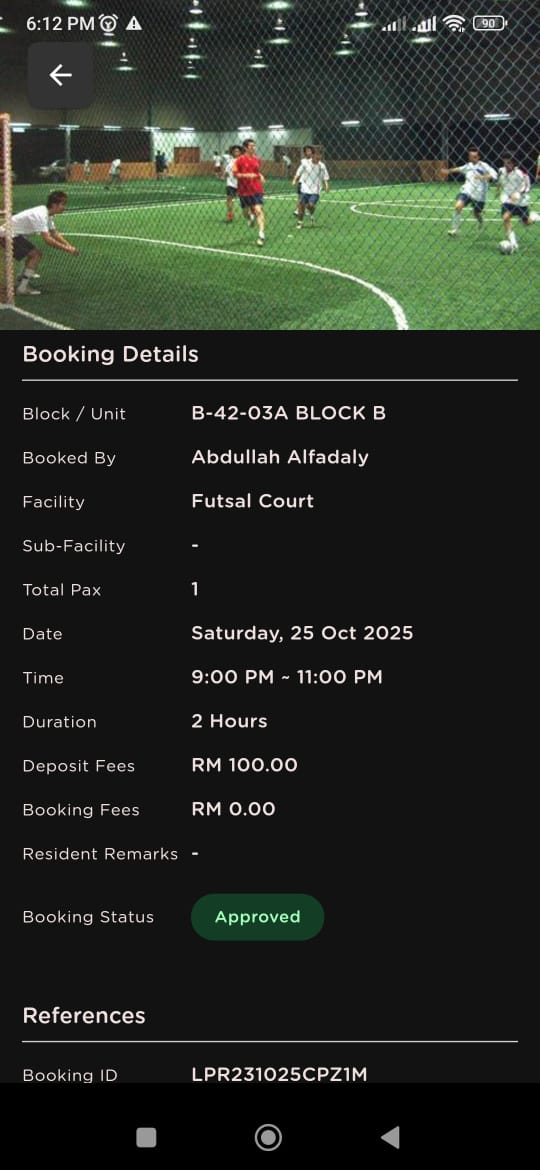
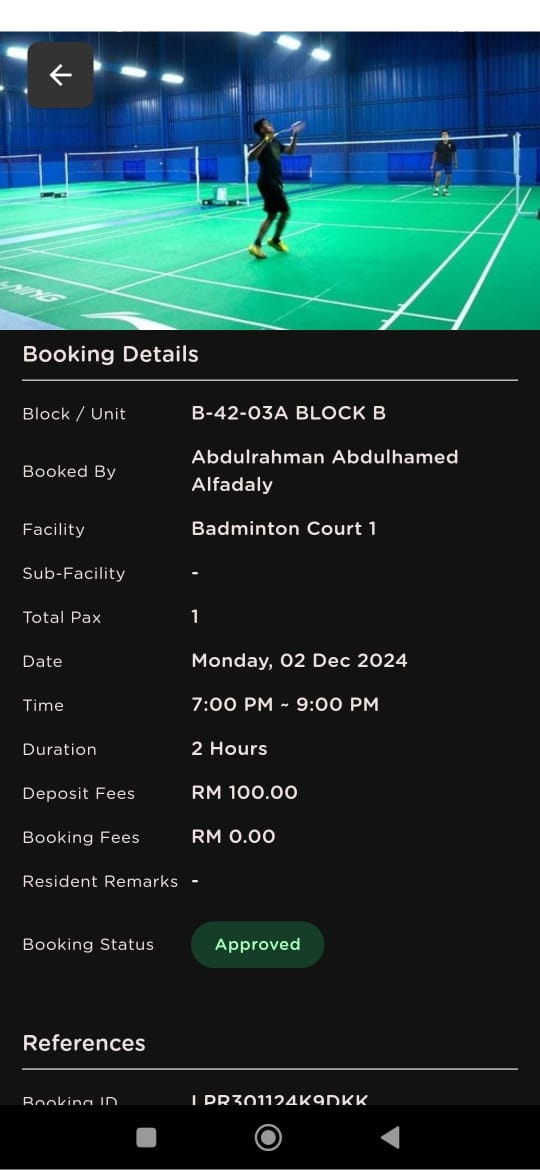
changes

diff --git a/index.html b/index.html
@@ -373,6 +373,32 @@
             box-shadow: 0 8px 32px rgba(0, 0, 0, 0.4);
         }
 
+        .action-buttons {
+            display: grid;
+            grid-template-columns: 1fr 1fr;
+            gap: 12px;
+            margin-top: 24px;
+        }
+
+        .view-button {
+            background: linear-gradient(135deg, #667eea 0%, #764ba2 100%);
+            border: none;
+            border-radius: 12px;
+            padding: 20px;
+            width: 100%;
+            color: #ffffff;
+            font-size: 16px;
+            font-weight: 600;
+            cursor: pointer;
+            transition: all 0.3s cubic-bezier(0.4, 0, 0.2, 1);
+            box-shadow: 0 4px 16px rgba(102, 126, 234, 0.25);
+        }
+
+        .view-button:hover {
+            transform: translateY(-2px);
+            box-shadow: 0 8px 24px rgba(102, 126, 234, 0.4);
+        }
+
         .download-button {
             background: linear-gradient(135deg, #11998e 0%, #38ef7d 100%);
             border: none;
@@ -383,7 +409,6 @@
             font-size: 16px;
             font-weight: 600;
             cursor: pointer;
-            margin-top: 24px;
             transition: all 0.3s cubic-bezier(0.4, 0, 0.2, 1);
             box-shadow: 0 4px 16px rgba(17, 153, 142, 0.25);
         }
@@ -391,6 +416,29 @@
         .download-button:hover {
             transform: translateY(-2px);
             box-shadow: 0 8px 24px rgba(56, 239, 125, 0.4);
+        }
+
+        .fullscreen-overlay {
+            display: none;
+            position: fixed;
+            top: 0;
+            left: 0;
+            width: 100%;
+            height: 100%;
+            background: rgba(0, 0, 0, 0.95);
+            z-index: 9999;
+            align-items: center;
+            justify-content: center;
+        }
+
+        .fullscreen-overlay.active {
+            display: flex;
+        }
+
+        .fullscreen-overlay img {
+            max-width: 95%;
+            max-height: 95vh;
+            object-fit: contain;
         }
 
         .success-message {
@@ -527,6 +575,10 @@
             .time-slots {
                 grid-template-columns: 1fr;
             }
+
+            .action-buttons {
+                grid-template-columns: 1fr;
+            }
         }
     </style>
 </head>
@@ -581,7 +633,10 @@
             <div class="result-image-container">
                 <canvas id="resultCanvas"></canvas>
             </div>
-            <button class="download-button" onclick="downloadImage()">Download Booking Confirmation</button>
+            <div class="action-buttons">
+                <button class="view-button" onclick="viewFullscreen()">View Full Screen</button>
+                <button class="download-button" onclick="downloadImage()">Download</button>
+            </div>
         </div>
 
         <!-- Coordinates Configuration Page -->
@@ -601,6 +656,11 @@
 
     <!-- Coordinates Button (Floating) -->
     <button class="coordinates-button" id="coordinatesBtn" onclick="openCoordinates()" style="display: none;" title="Configure Text Position">⚙</button>
+
+    <!-- Fullscreen Overlay -->
+    <div id="fullscreenOverlay" class="fullscreen-overlay" onclick="closeFullscreen()">
+        <img id="fullscreenImage" src="" alt="Booking Confirmation">
+    </div>
 
     <!-- Date Picker Modal -->
     <div id="dateModal" class="modal">
@@ -674,7 +734,6 @@
                 document.getElementById('coordinatesBtn').style.display = 'block';
             } catch (error) {
                 console.error('Error loading facilities:', error);
-                alert('Failed to load facilities data. Please make sure facilities.json exists.');
             }
         }
 
@@ -857,15 +916,15 @@
 
             // Draw sample text with Inter Medium
             ctx.fillStyle = '#dcd7d6';
-            ctx.font = '500 21px Inter, Arial, sans-serif';
+            ctx.font = '500 20px Inter, Arial, sans-serif';
             ctx.textAlign = 'left';
             
             // Draw date
-            const dateText = 'Saturday, 25 Oct 2025';
+            const dateText = 'Monday, 02 Dec 2024';
             ctx.fillText(dateText, coords.dateX, coords.dateY);
             
             // Draw time
-            const timeText = '9:00 PM - 11:00 PM';
+            const timeText = '7:00 PM - 9:00 PM';
             ctx.fillText(timeText, coords.timeX, coords.timeY);
 
             // Draw crosshairs and drag handles
@@ -907,7 +966,6 @@
             const coords = configData.textCoordinates;
             localStorage.setItem('textCoordinates', JSON.stringify(coords));
             
-            alert('Coordinates saved successfully!');
             goToHome();
         }
 
@@ -937,8 +995,14 @@
         }
 
         function updateDateDisplay() {
-            const options = { weekday: 'long', year: 'numeric', month: 'short', day: 'numeric' };
-            document.getElementById('selectedDate').textContent = selectedDate.toLocaleDateString('en-US', options);
+            // Format as "Monday, 02 Dec 2024"
+            const days = ['Sunday', 'Monday', 'Tuesday', 'Wednesday', 'Thursday', 'Friday', 'Saturday'];
+            const months = ['Jan', 'Feb', 'Mar', 'Apr', 'May', 'Jun', 'Jul', 'Aug', 'Sep', 'Oct', 'Nov', 'Dec'];
+            const dayName = days[selectedDate.getDay()];
+            const day = String(selectedDate.getDate()).padStart(2, '0');
+            const month = months[selectedDate.getMonth()];
+            const year = selectedDate.getFullYear();
+            document.getElementById('selectedDate').textContent = `${dayName}, ${day} ${month} ${year}`;
         }
 
         function updateTimeDisplay() {
@@ -1040,13 +1104,17 @@
         // Confirm Booking
         function confirmBooking() {
             if (!selectedTime) {
-                alert('Please select a time slot');
                 return;
             }
 
             generateBookingImage();
             document.getElementById('detailPage').classList.remove('active');
             document.getElementById('resultPage').classList.add('active');
+            
+            // Automatically show fullscreen after a brief delay to let canvas render
+            setTimeout(() => {
+                viewFullscreen();
+            }, 100);
         }
 
         function generateBookingImage() {
@@ -1067,13 +1135,17 @@
 
                 // Add text with Inter Medium
                 ctx.fillStyle = '#dcd7d6';
-                ctx.font = '500 21px Inter, Arial, sans-serif';
+                ctx.font = '500 20px Inter, Arial, sans-serif';
                 ctx.textAlign = 'left';
                 
-                // Draw date at configured position
-                const dateStr = selectedDate.toLocaleDateString('en-US', { 
-                    weekday: 'long', year: 'numeric', month: 'short', day: 'numeric' 
-                });
+                // Format date as "Monday, 02 Dec 2024"
+                const days = ['Sunday', 'Monday', 'Tuesday', 'Wednesday', 'Thursday', 'Friday', 'Saturday'];
+                const months = ['Jan', 'Feb', 'Mar', 'Apr', 'May', 'Jun', 'Jul', 'Aug', 'Sep', 'Oct', 'Nov', 'Dec'];
+                const dayName = days[selectedDate.getDay()];
+                const day = String(selectedDate.getDate()).padStart(2, '0');
+                const month = months[selectedDate.getMonth()];
+                const year = selectedDate.getFullYear();
+                const dateStr = `${dayName}, ${day} ${month} ${year}`;
                 ctx.fillText(dateStr, coords.dateX, coords.dateY);
                 
                 // Draw time at configured position
@@ -1088,6 +1160,17 @@
             link.download = `booking-${currentFacility.name.replace(/\s+/g, '-')}-${Date.now()}.png`;
             link.href = canvas.toDataURL('image/png');
             link.click();
+        }
+
+        function viewFullscreen() {
+            const canvas = document.getElementById('resultCanvas');
+            const img = document.getElementById('fullscreenImage');
+            img.src = canvas.toDataURL('image/png');
+            document.getElementById('fullscreenOverlay').classList.add('active');
+        }
+
+        function closeFullscreen() {
+            document.getElementById('fullscreenOverlay').classList.remove('active');
         }
 
         // Initialize app
